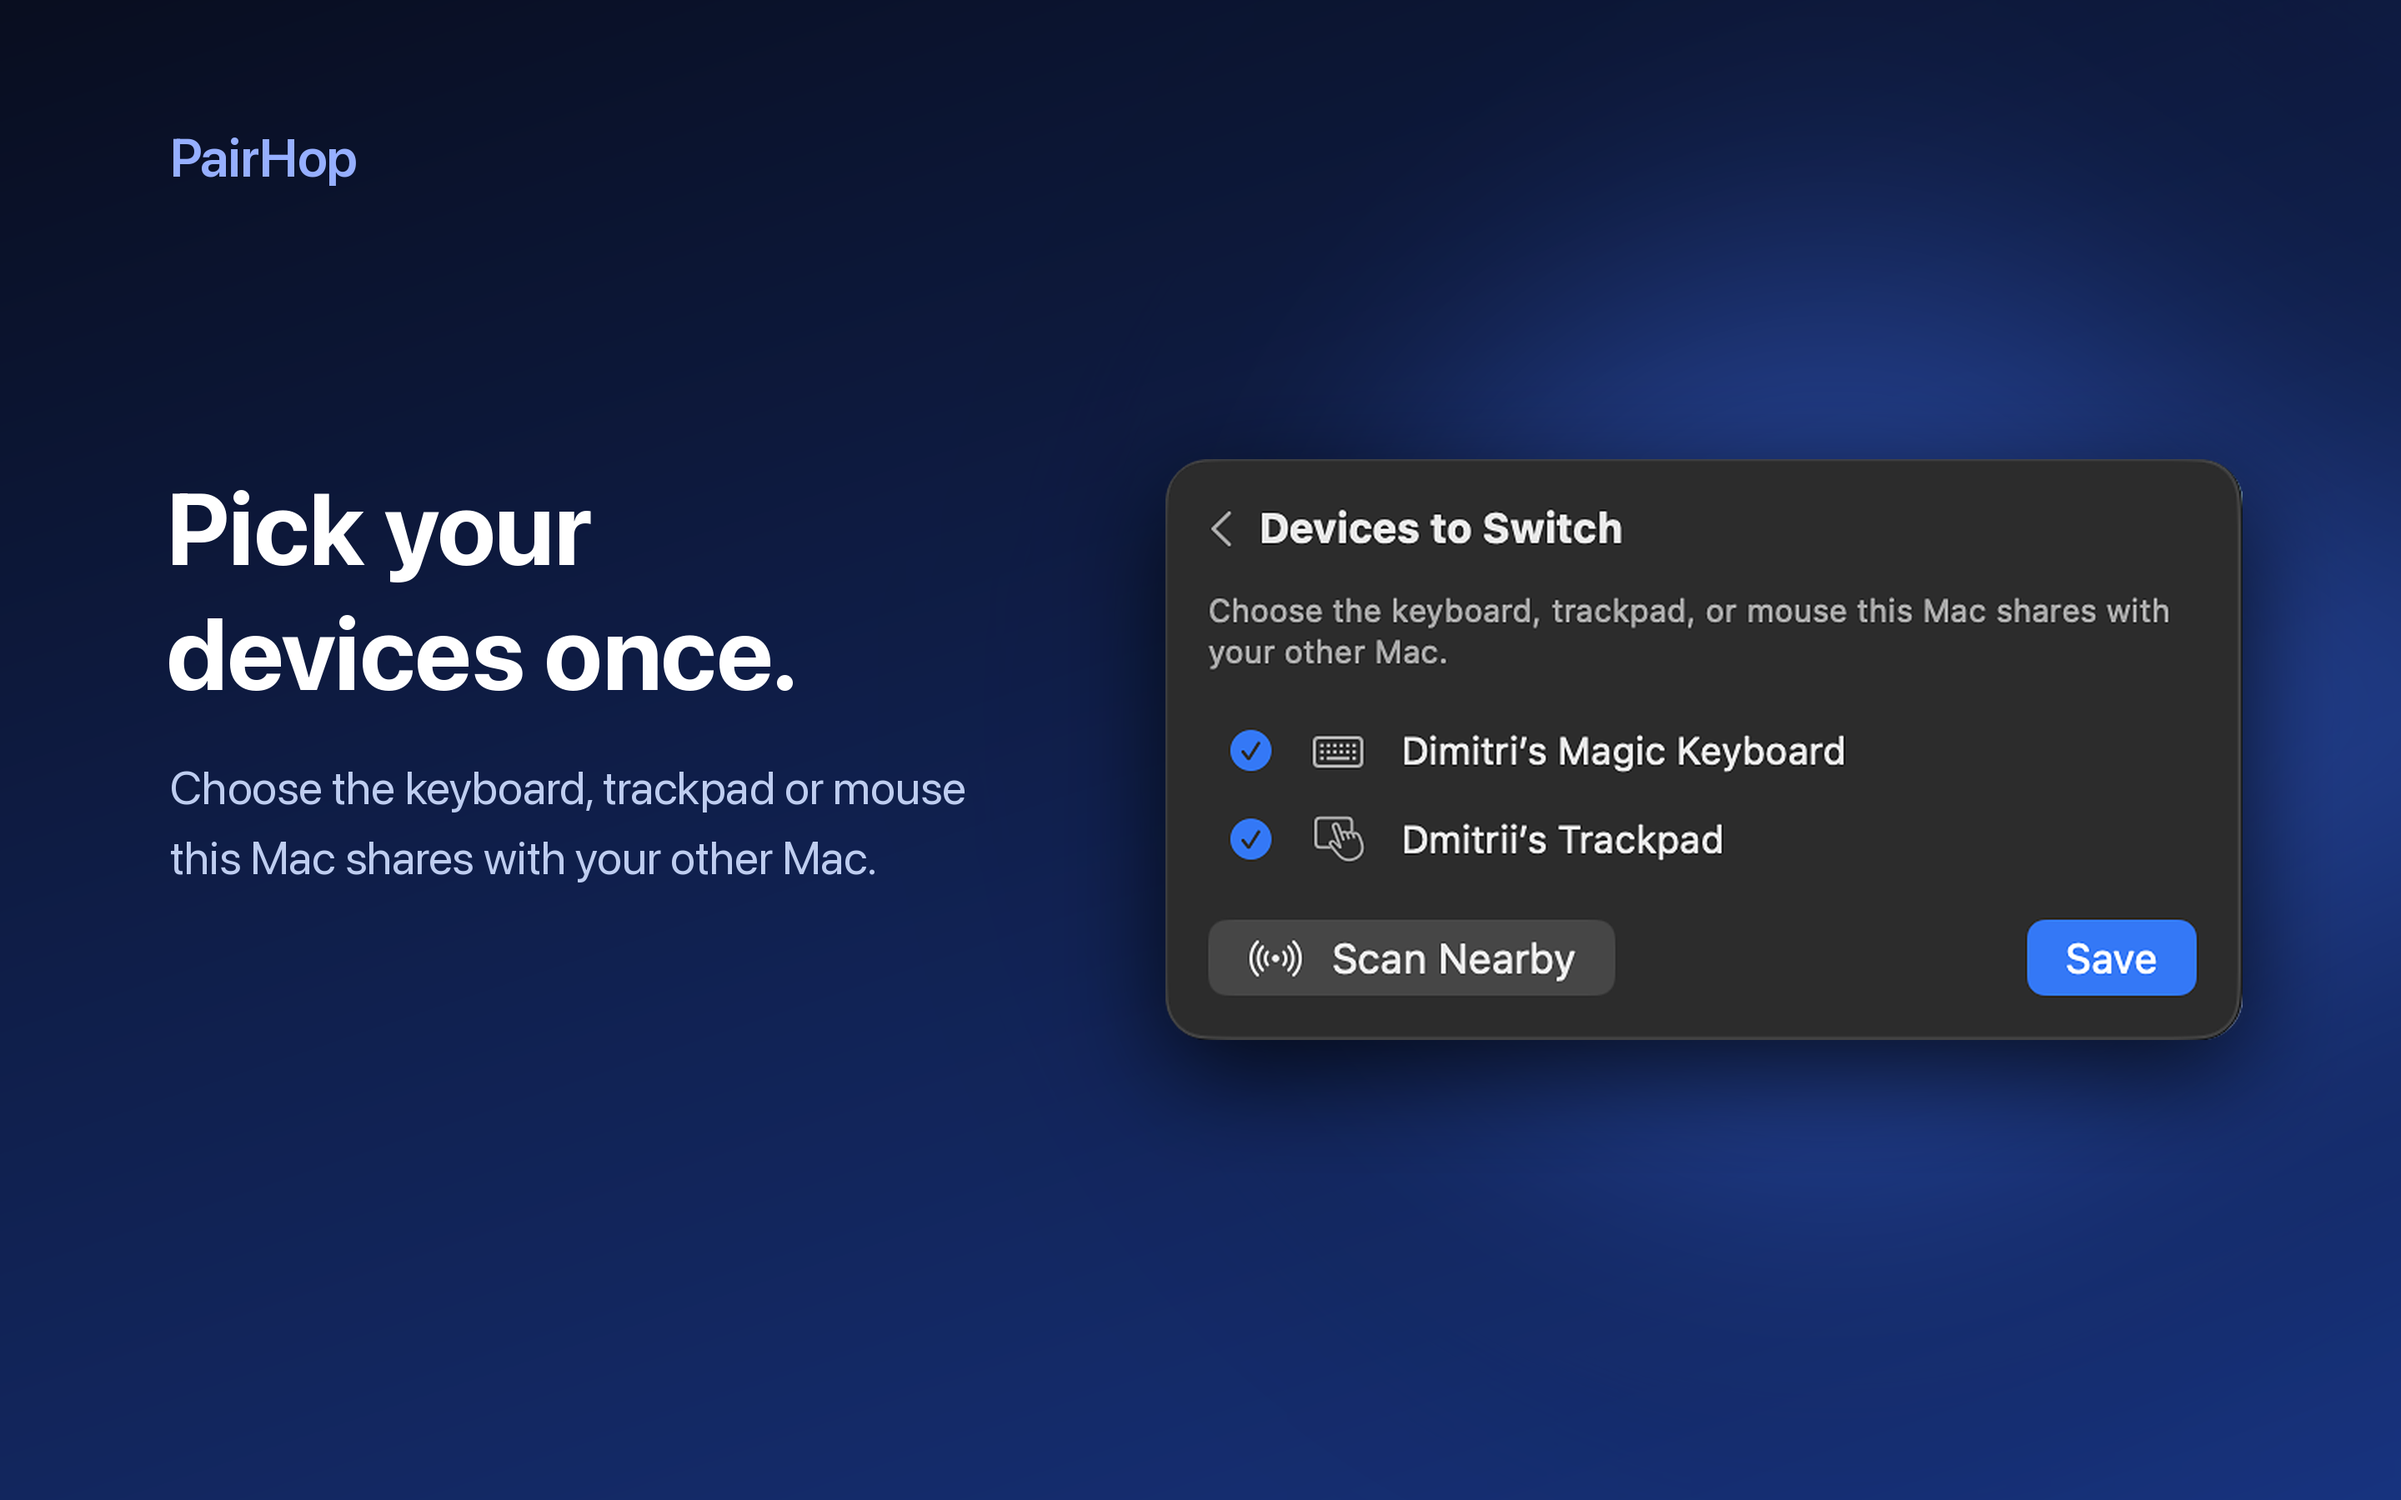
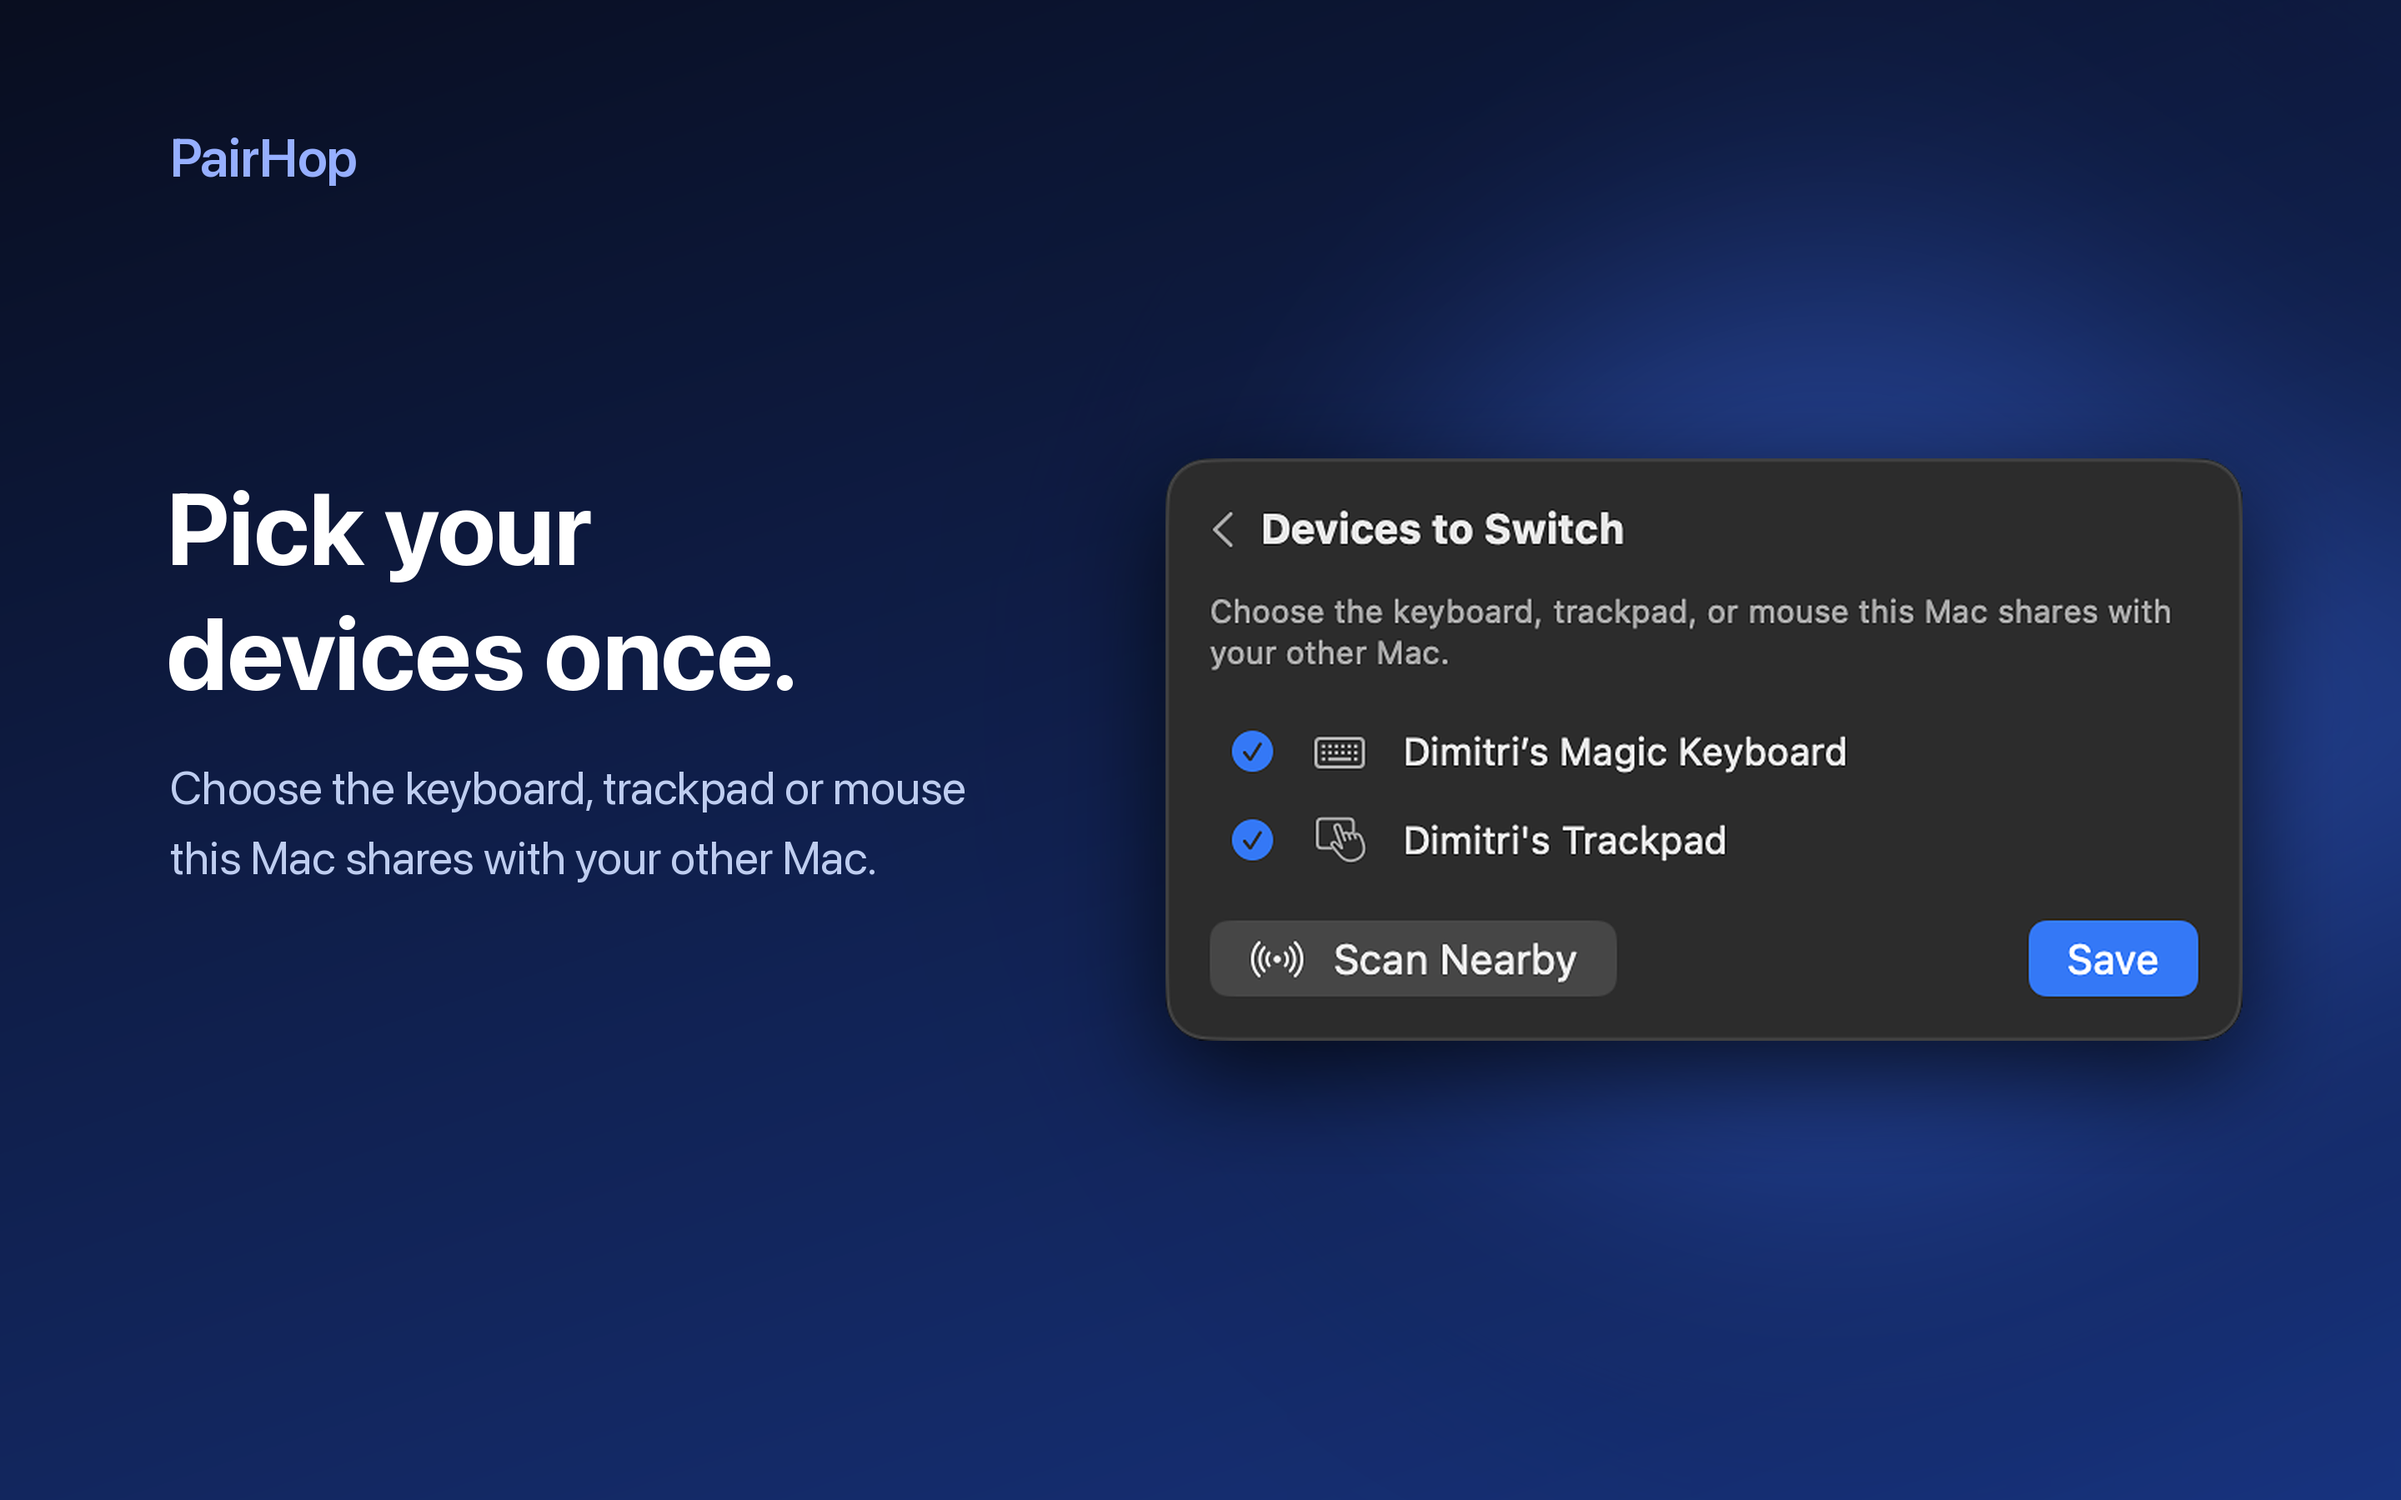
Stop tracking the raw screenshot captures; refresh the devices screenshot
The raw captures show device names and stay local; .gitignore already lists
marketing/raw/. Screenshot 5 uses the renamed trackpad.

diff --git a/marketing/compose.py b/marketing/compose.py
@@ -70,7 +70,7 @@ def prepare(raw, scale):
     elif name == "settings-triggers.png":
         shot = cut(img, (0, 0, w, h), cut_top=True, cut_bottom=True)
     elif name == "edit-devices.png":
-        shot = cut(img, (3, 1, 683, h - 4))
+        shot = cut(img, (4, 4, 684, h - 6))
     elif name == "panel-other.png":
         shot = cut(img, (4, 4, 684, h - 7))
     else:
